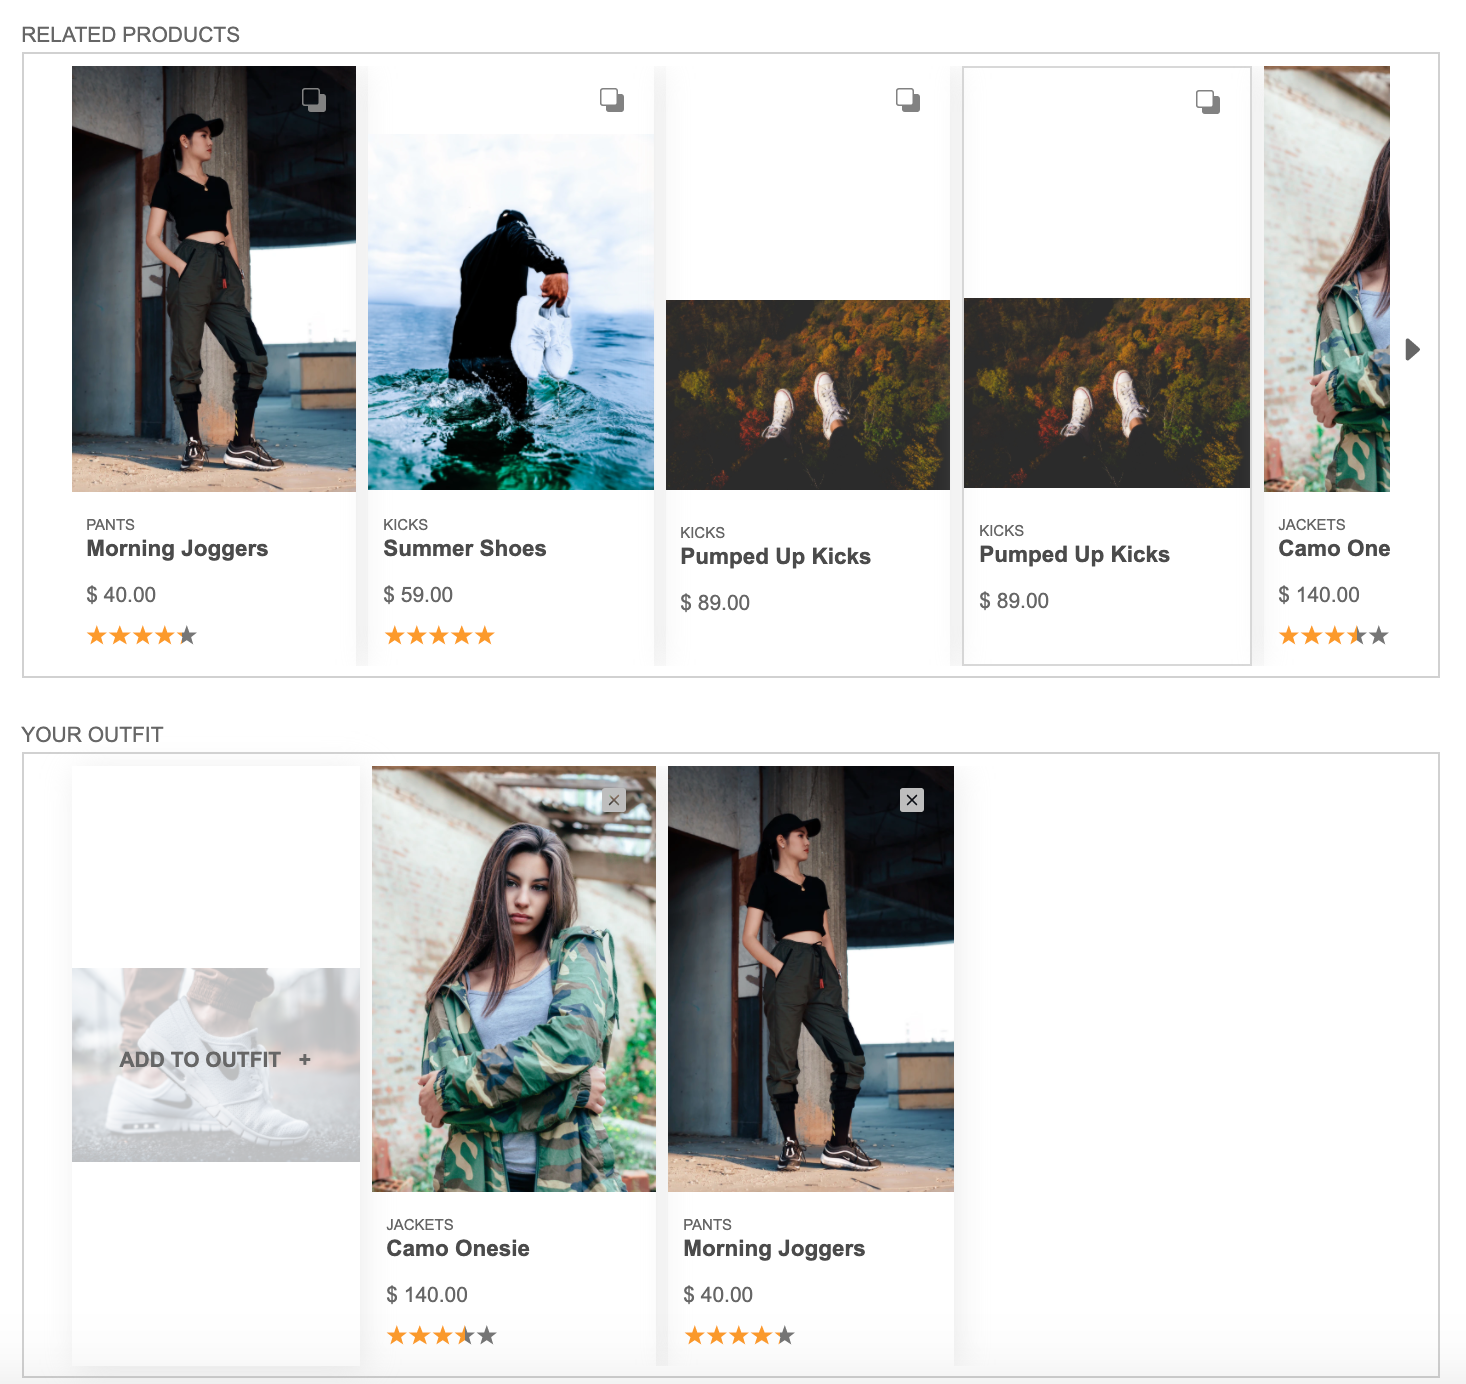
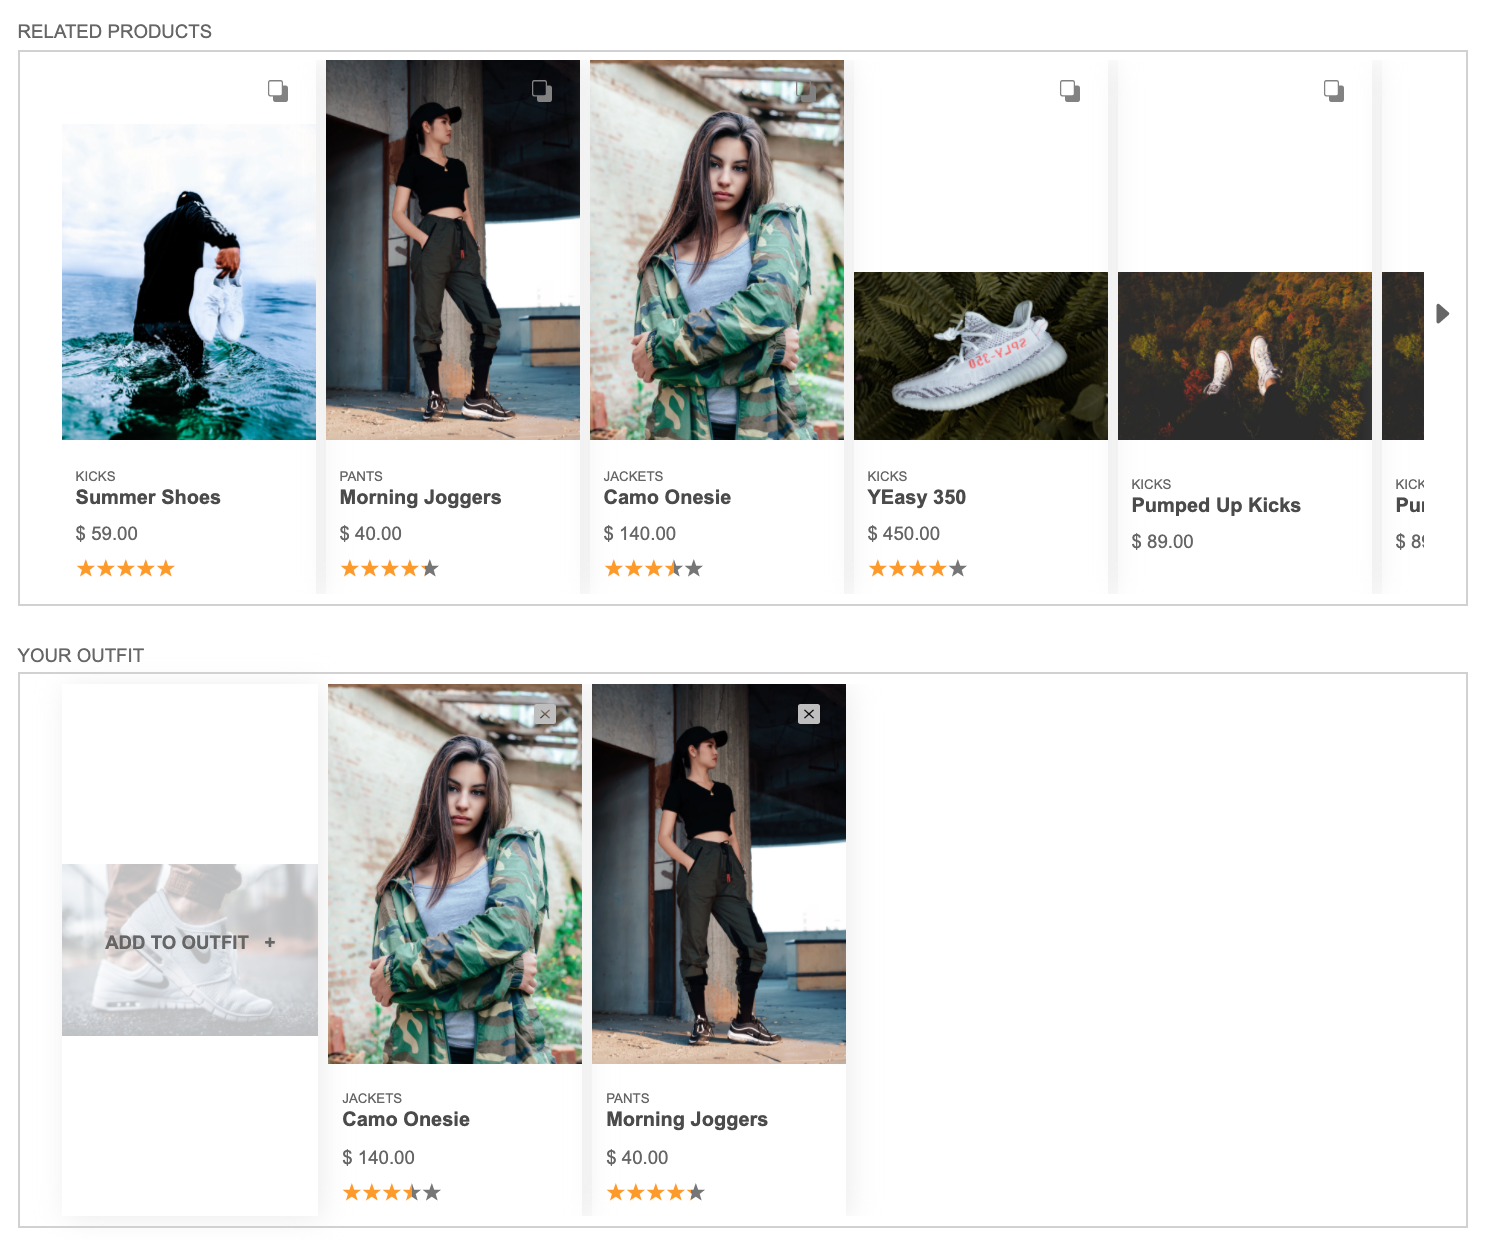
Update Readme images

diff --git a/README.md b/README.md
@@ -21,7 +21,7 @@ our implementation, functionality, and styling.
 - **Cody** - Questions and Answers
 - **Will** - Ratings and Reviews
 
-![catwalk](img/fec.gif)
+![catwalk](img/fecNew.gif)
 
 ## Technologies
 For this project, we used the following languages and frameworks in our implementation
@@ -50,7 +50,7 @@ The Your Outfit List module below the Related Products carousel allows clients t
 * Navigating to the related products
 * Comparison Modal
 * Carousel to add to Outfit
-![relatedItems](img/relatedItems.png)
+![relatedItems](img/relatedItemsNew.png)
 ![relatedItems](img/relatedItemNew.gif)
 
 #### 3. Questions & Answers
